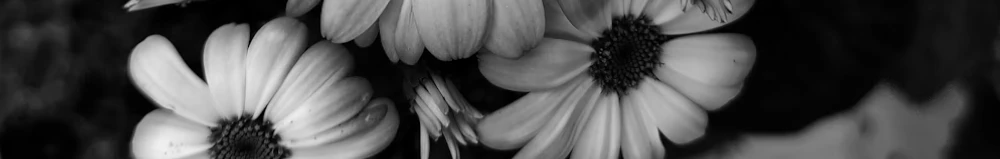
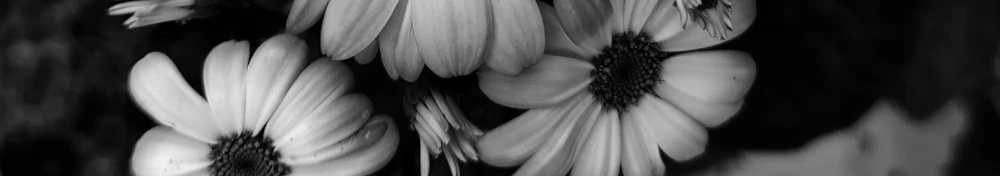
style: hero 이미지 사이즈 조정

diff --git a/src/components/HeroSection.tsx b/src/components/HeroSection.tsx
@@ -30,14 +30,15 @@ export default function Hero() {
           <h1 id="hero-title" className={`{textStyle} mb-4 lg:mb-0`}>
             CREATIVE
           </h1>
-          <div className="hidden lg:block">
+          <div className="relative hidden lg:block h-auto overflow-hidden">
             <Image
               src="/hero/flower.webp"
               alt="히어로 이미지"
-              width={500}
-              height={200}
+              width={1600}
+              height={900}
               priority
-              className="lg:w-120 lg:h-21 xl:w-160 xl:h-27"
+              className="lg:w-[450px] lg:h-[80px] xl:w-[600px] xl:h-[110px]"
+              aria-hidden="true"
             />
           </div>
         </div>
@@ -81,7 +82,7 @@ export default function Hero() {
               height="24"
               fill="currentColor"
               aria-hidden="true"
-              className={shapeStyle}
+              className={`{shapeStyle} text-neutral-300`}
             >
               {/* 가운데 원 */}
               <circle cx="12" cy="12" r="6.5" />

diff --git a/src/components/Header.tsx b/src/components/Header.tsx
@@ -118,7 +118,7 @@ export default function Header() {
             </button>
           </div>
 
-          <ul className="flex flex-col items-center gap-8 py-10 text-sm tracking-wide text-neutral-800">
+          <ul className="flex flex-col items-center gap-8 py-10 text-sm tracking-wide text-neutral-800 focus:border-b focus:border-neutral-800">
             {nav.header.map((item) => (
               <li key={item.label}>
                 <Link

diff --git a/src/components/Footer.tsx b/src/components/Footer.tsx
@@ -60,7 +60,7 @@ export default function Footer() {
             © 2025 Baek Sejin. All rights reserved.
           </p>
 
-          <div className="flex items-center justify-center md:justify-end gap-4">
+          <div className="flex items-center justify-center md:justify-end gap-4 invert brightness-0">
             <SocialLinks items={contact.socials} />
           </div>
         </div>

diff --git a/src/app/about/page.tsx b/src/app/about/page.tsx
@@ -76,6 +76,7 @@ export default function AboutPage() {
             alt="백세진"
             fill
             className="object-cover"
+            sizes="(min-width: 1024px) 672px, (min-width: 768px) 320px, 160px"
           />
         </div>
         <div className="flex flex-col items-center gap-8 lg:gap-14">
